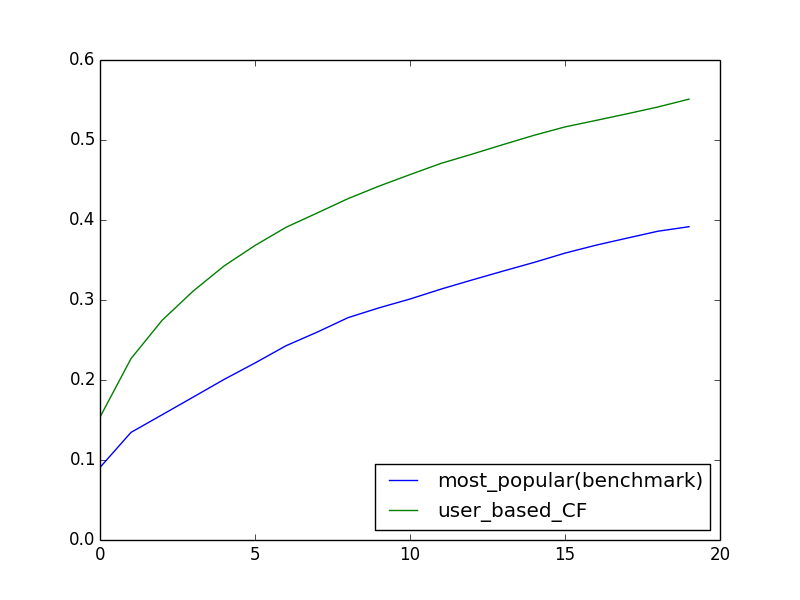
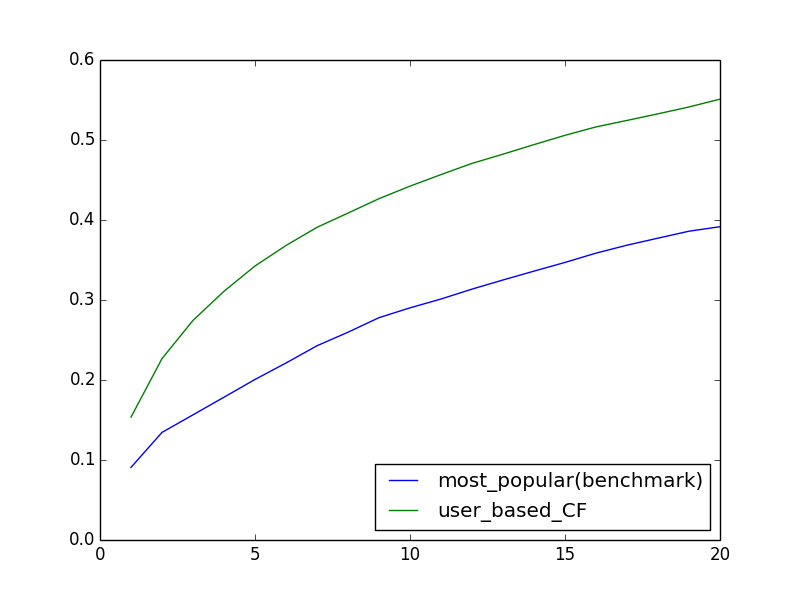
update recall graph

diff --git a/model/model_evaluation.py b/model/model_evaluation.py
@@ -63,7 +63,7 @@ if __name__ == "__main__":
 	for i in range(0, 20):
 		recall_user_based_CF[i] = float(recall_user_based_CF[i]) / float(total_number)
 		recall_top20[i] = float(recall_top20[i]) / float(total_number)	
-	x = range(0, 20)
+	x = range(1, 21)
 	pl.plot(x, recall_top20, label = "most_popular(benchmark)")
 	pl.plot(x, recall_user_based_CF, label = "user_based_CF")
 	pl.legend(loc='lower right')
